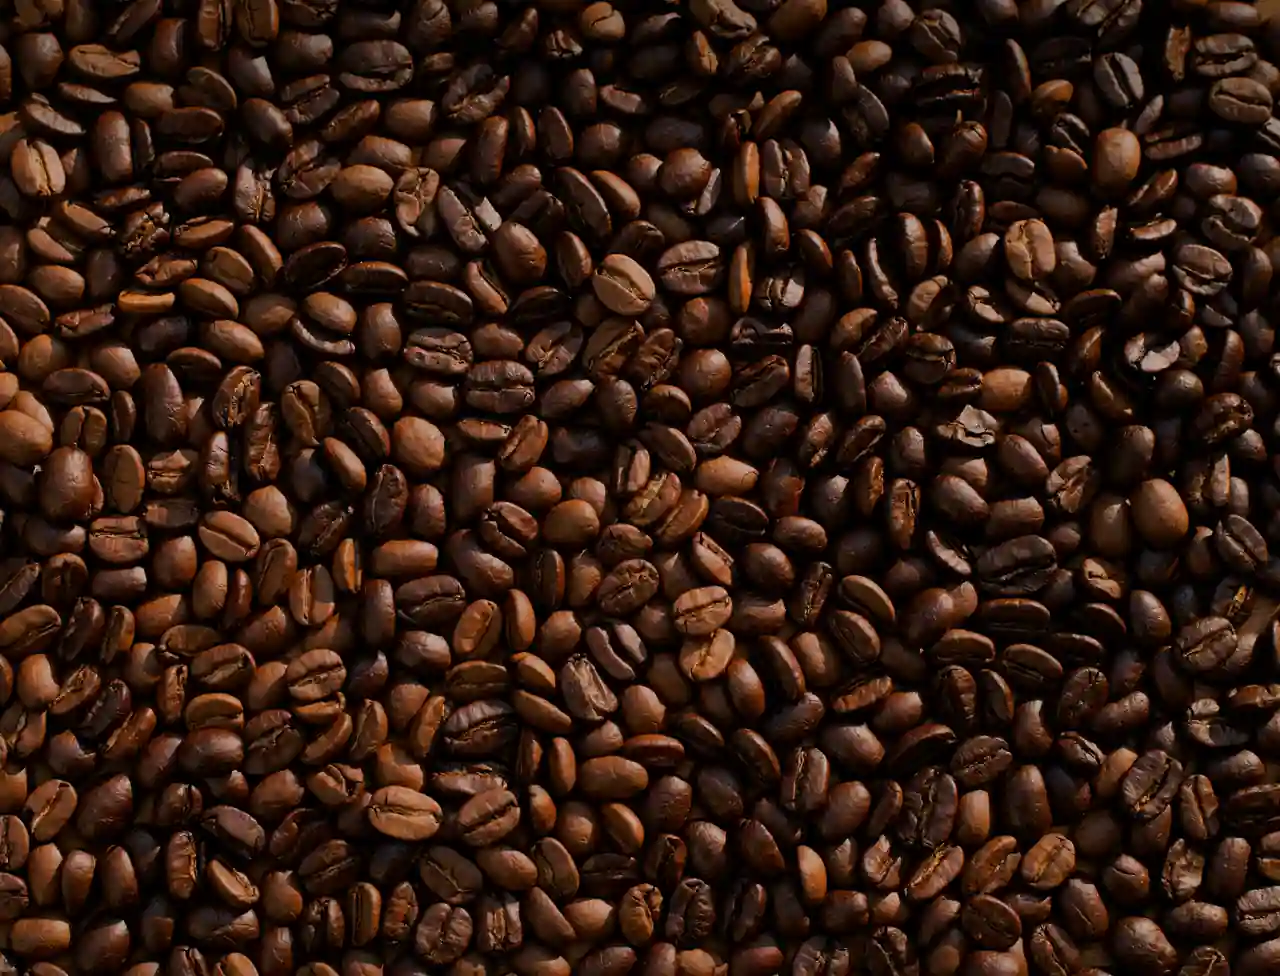
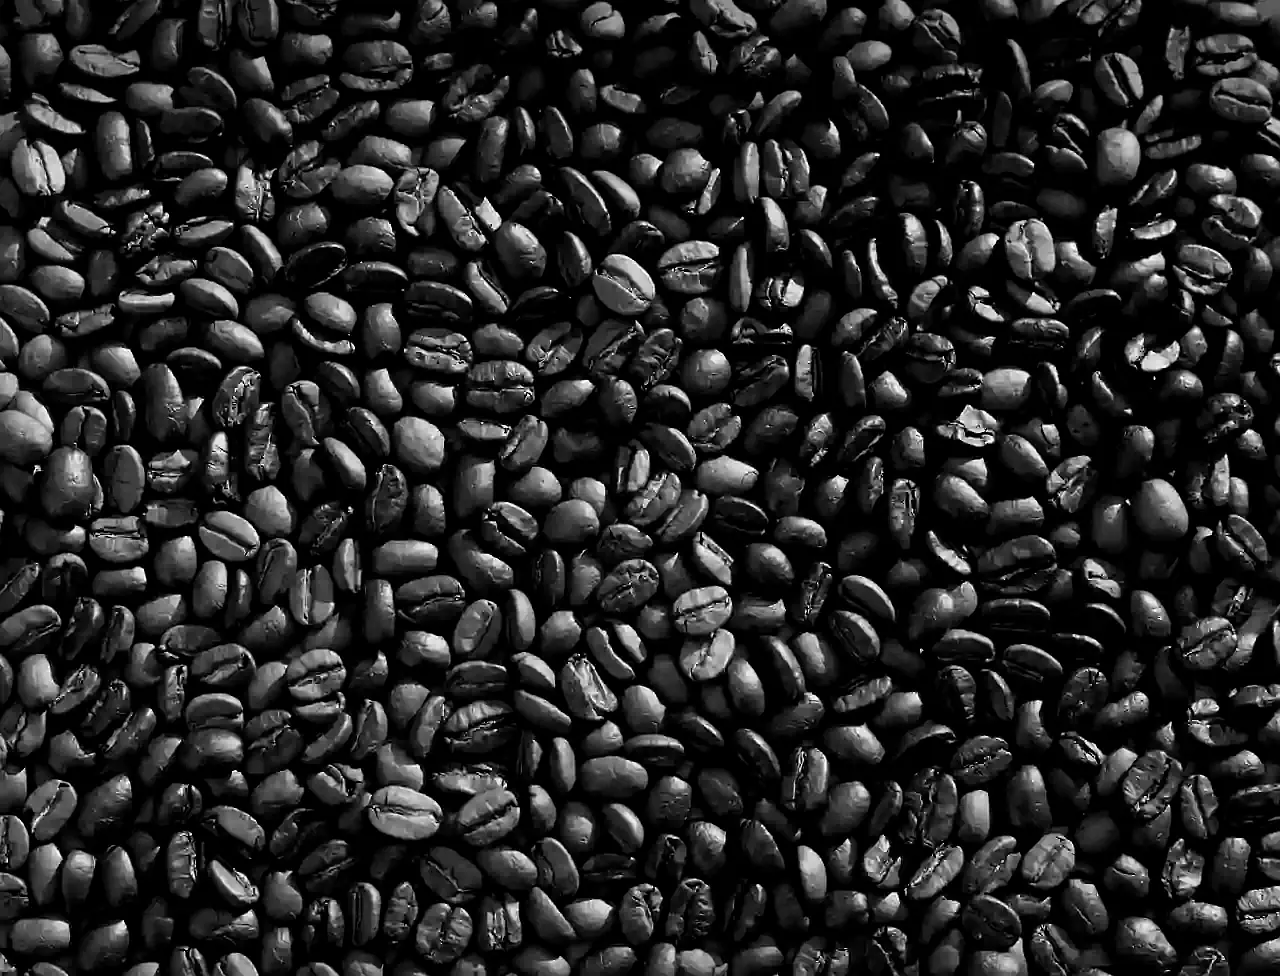
SS1: B&W with enhanced contrast/sharpness on beans-sorted; SS2: rich warm brown on beans-roasted (boosted saturation, contrast, warmth)

diff --git a/index.html b/index.html
@@ -4544,7 +4544,7 @@ section > * { position: relative; z-index: 1; }
       width="1600" height="300"
       alt="Yirgacheffe natural coffee drying beds — cooperative farmers at work"
       class="photo-break-img"
-      style="filter: grayscale(100%) contrast(1.1);"
+      style="filter: grayscale(100%) contrast(1.28) brightness(1.06) sharpen(1); image-rendering: high-quality;"
       onerror="this.closest('div').style.display='none'"
     />
   </picture>